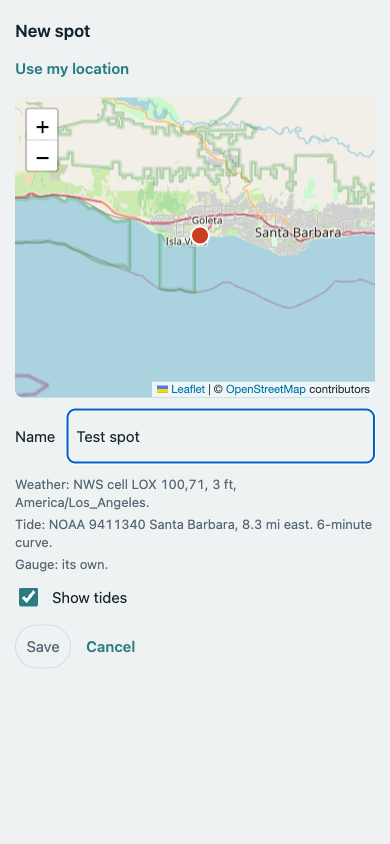
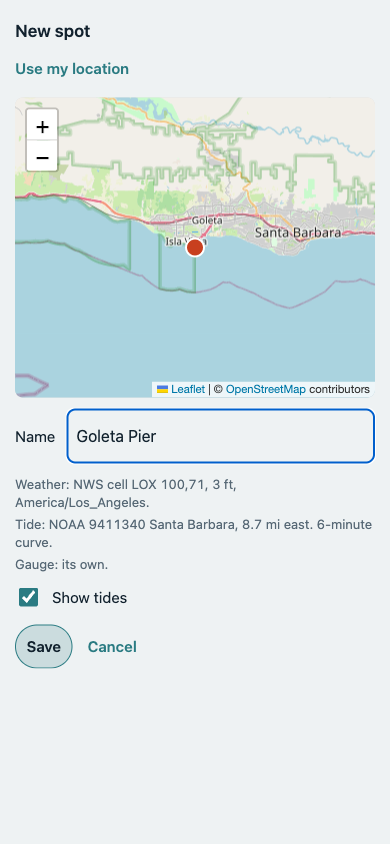
Say "reload the page" when the add screen could not load, and keep the browser check's screenshots
React.lazy keeps the fallback for the life of the page, so "try again" was a promise the Cancel button could not keep. Three screenshots from the controller's phone-width check: the add screen with its facts, a saved spot, and a saved spot at a subordinate station drawing the interpolated curve.

Claude-Session: https://claude.ai/code/session_011uFB3EqJLYQ5h3p8Hc6jPq

diff --git a/src/ui/addSpotView.test.ts b/src/ui/addSpotView.test.ts
@@ -153,7 +153,7 @@ describe('removeQuestion', () => {
 describe('WORDS', () => {
   test('the line shown when the add screen could not be loaded', () => {
     expect(WORDS.addUnavailable).toBe(
-      "Couldn't load the map. Check the connection and try again.",
+      "Couldn't load the map. Check the connection and reload the page.",
     )
   })
   test('the separator on the remove line', () => {

diff --git a/src/ui/addSpotView.ts b/src/ui/addSpotView.ts
@@ -27,7 +27,8 @@ export const WORDS = {
   cancel: 'Cancel',
   tryAgain: 'Try again',
   loadingMap: 'Loading the map…',
-  addUnavailable: "Couldn't load the map. Check the connection and try again.",
+  addUnavailable:
+    "Couldn't load the map. Check the connection and reload the page.",
   remove: 'Remove this spot',
   removeYes: 'Yes, remove',
   removeNo: 'Keep',
